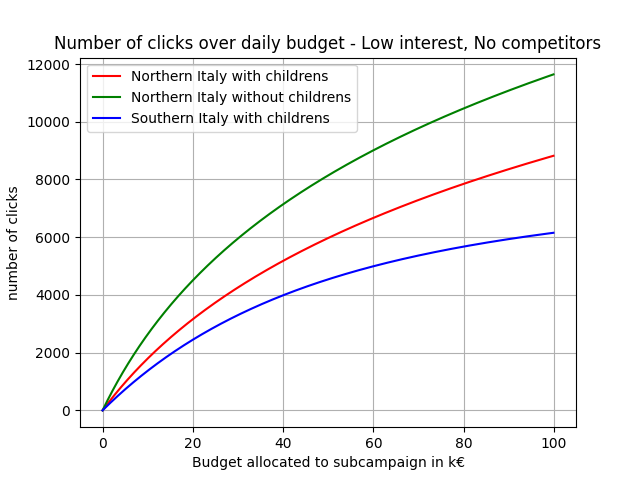
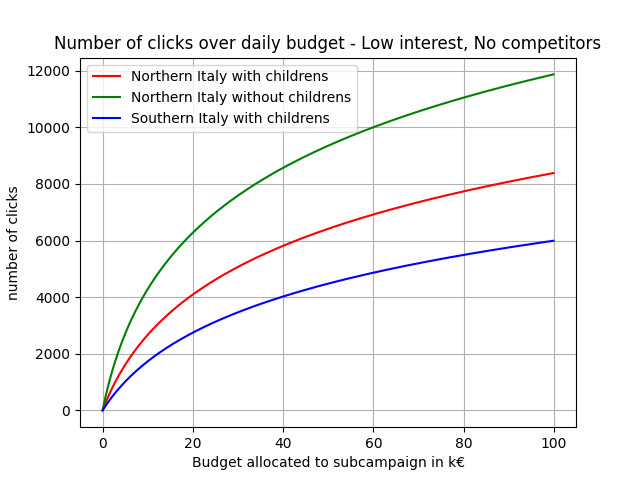
Change prob/clicks function of second phase (p = 1)

diff --git a/probability_over_clicks.py b/probability_over_clicks.py
@@ -31,7 +31,7 @@ plt.legend(["Northern Italy with childrens", "Northern Italy without childrens",
 ax.set(xlabel='Budget allocated to subcampaign in k€', ylabel='number of clicks',
        title='Number of clicks over daily budget - Low interest, No competitors')
 ax.grid()
-plt.savefig('curves/daily_clicks_00.png')
+plt.savefig('curves/real_curves/daily_clicks_00.png')
 plt.show()
 
 fig2, ax2 = plt.subplots()
@@ -42,7 +42,7 @@ plt.legend(["Northern Italy with childrens", "Northern Italy without childrens",
 ax2.set(xlabel='Budget allocated to subcampaign in k€', ylabel='number of clicks',
        title='Number of clicks over daily budget - Low interest, With competitors')
 ax2.grid()
-plt.savefig('curves/daily_clicks_01.png')
+plt.savefig('curves/real_curves/daily_clicks_01.png')
 plt.show()
 
 fig3, ax3 = plt.subplots()
@@ -53,7 +53,7 @@ plt.legend(["Northern Italy with childrens", "Northern Italy without childrens",
 ax3.set(xlabel='Budget allocated to subcampaign in k€', ylabel='number of clicks',
        title='Number of clicks over daily budget - High interest, With competitors')
 ax3.grid()
-plt.savefig('curves/daily_clicks_11.png')
+plt.savefig('curves/real_curves/daily_clicks_11.png')
 plt.show()
 
 fig4, ax4 = plt.subplots()
@@ -64,5 +64,5 @@ plt.legend(["Northern Italy with childrens", "Northern Italy without childrens",
 ax4.set(xlabel='Budget allocated to subcampaign in k€', ylabel='number of clicks',
        title='Number of clicks over daily budget - High interest, No competitors')
 ax4.grid()
-plt.savefig('curves/daily_clicks_10.png')
+plt.savefig('curves/real_curves/daily_clicks_10.png')
 plt.show()

diff --git a/utils.py b/utils.py
@@ -13,11 +13,11 @@ def getClickCurve(phase, userType, x_values):
     elif(phase == 1):
         # Low interest / No competitors
         if(userType == 0):
-            return 5700 * np.log(x_values/ 27 + 1)
+            return 3150 * np.log(x_values / 7.5 + 1)
         elif(userType == 1):
-            return 6500 * np.log(x_values/ 20 + 1)
+            return 3900 * np.log(x_values / 5 + 1)
         else:
-            return 4500 * (1 - np.exp((-1 * x_values) / 40)) + 1500 * np.log(x_values/ 35 + 1)
+            return 2500 * np.log(x_values / 10 + 1)
     elif (phase == 2):
         # Low interest / With competitors
         if(userType == 0):
